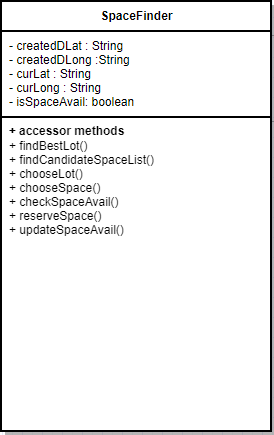
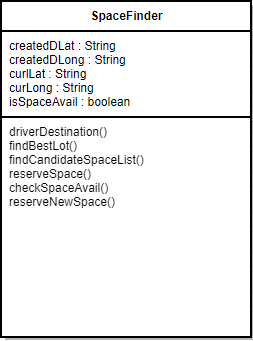
added to Data Types and Operation Signature

Changed region(s): [[0.0, 0.0, 1.0, 1.0]]

diff --git a/parking-report2.md b/parking-report2.md
@@ -98,7 +98,7 @@ ParkMe close to my destination lets the driver select a building on campus so th
 
 <img src="./diagrams/Report2_UcAutoParkMe.png"/>
 
-The key difference between ParkMe Close and ParkMe Valet is that the driver can have the system prioritize parking lots close to his/her destination.
+The key difference between ParkMe Near and ParkMe Valet is that the driver can have the system prioritize parking lots close to his/her destination.
 
 <img src="./diagrams/Report2_UcAutoParkMeInteraction.png"/>
 
@@ -172,7 +172,7 @@ The Web DriverPark classes are used by a driver to accomplish the following task
 
 ### <a name = data_types></a>Data Types and Operation Signatures ###
 
-**Navigator:**
+####Navigator:####
 
 ***Attributes:***
 
@@ -223,6 +223,50 @@ The Web DriverPark classes are used by a driver to accomplish the following task
 			navigateIntent()	
 						Calls Google Maps Directions API with valid new Intent and 
 						context.
+
+
+####SpaceFinder####
+
+***Attributes:***
+
+        createdDLat: String            
+                    Corresponds to the users destination latitude coordinates. 
+
+        createdDLong: String           
+                    Corresponds to the users destination longitude coordinates.
+
+        curLat: String          
+                    Corresponds to the users current latitude coordinate.
+
+        curLong: String         
+                    Corresponds to the users current longitude coordinate.
+
+		isSpaceAvail : boolean
+					True if space is vacant false if not.
+					
+
+***Operations:***
+
+        driverDestination()
+					Used in ParkMe near, lets user choose from a list of buildings.
+
+        findBestLot()
+        			Automatically finds best lot from the user’s current location or from driver destination.
+
+        findCandidateSpaceList()
+					Automatically finds best space.
+
+        reserveSpace() 
+		 			Reserves space for user and creates a set of Geo-coordinates, but does not guarantee space will not fill up.
+
+        checkSpaceAvail()     
+                    Continually checks with sensor if the Space is vacant or not.
+
+		reserveNewSpace()	
+					If space is taken, will find a new Space and creates a new set of Geo-coordinates.	 
+	
+
+
 
 
 
